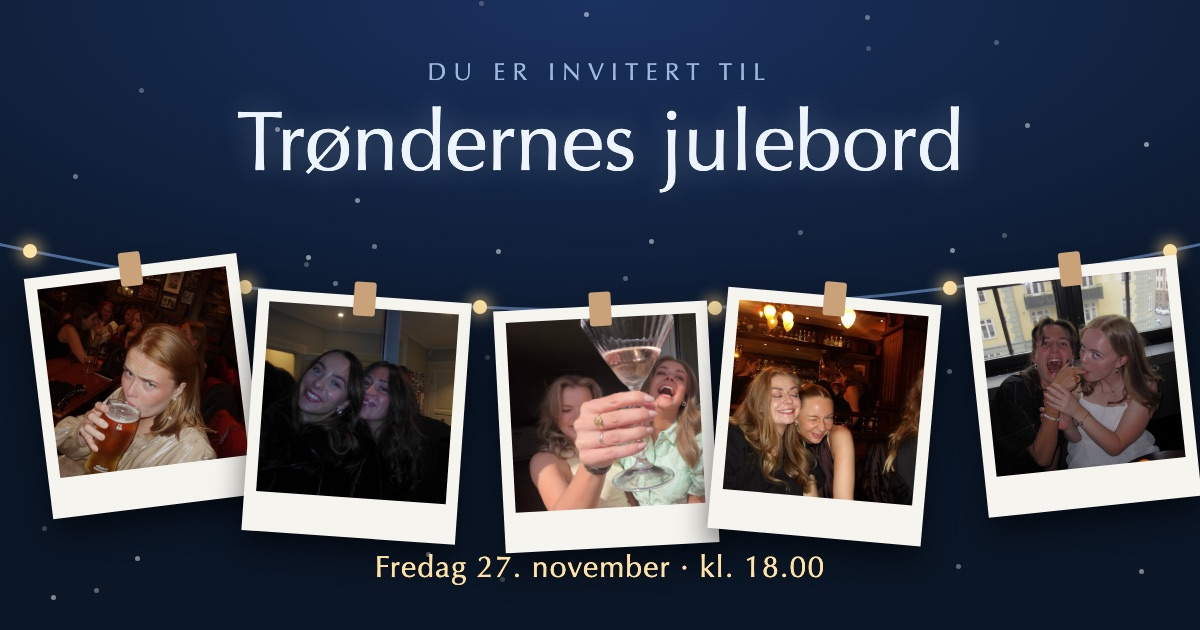
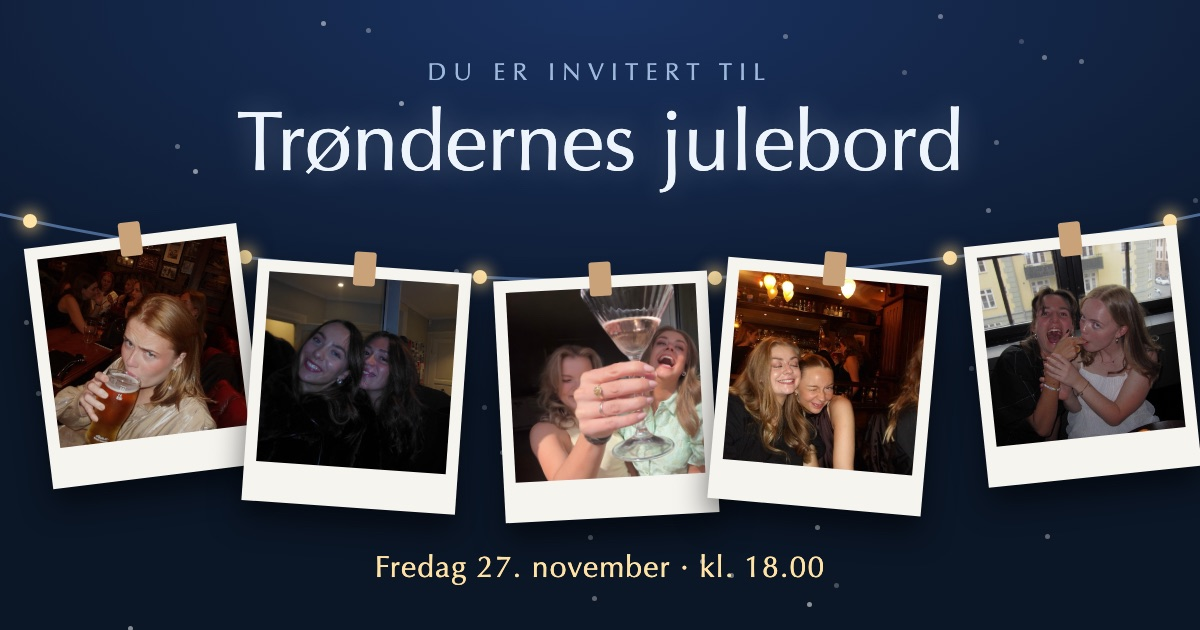
Ny tittel ved deling og lyslenka høyere i forhåndsvisningen

Changed region(s): [[0.0, 0.3317, 1.0, 0.8746], [0.0925, 0.9952, 0.1233, 1.0]]

diff --git a/index.html b/index.html
@@ -5,12 +5,12 @@
 <meta name="viewport" content="width=device-width,initial-scale=1,viewport-fit=cover">
 <meta name="robots" content="noindex,nofollow">
 <meta name="theme-color" content="#0b1626">
-<title>Trøndernes julebord</title>
-<meta property="og:title" content="Trøndernes julebord">
+<title>Invitasjon til trøndernes julebord</title>
+<meta property="og:title" content="Invitasjon til trøndernes julebord">
 <meta property="og:description" content="Fredag 27. november kl. 18.00">
 <meta property="og:type" content="website">
 <meta property="og:url" content="https://sannagrosoy.github.io/julebord/">
-<meta property="og:image" content="https://sannagrosoy.github.io/julebord/delebilde.jpg">
+<meta property="og:image" content="https://sannagrosoy.github.io/julebord/delebilde.jpg?v=2">
 <meta property="og:image:width" content="1200">
 <meta property="og:image:height" content="630">
 <meta property="og:image:alt" content="Polaroidbilder på en lyslenke under teksten Trøndernes julebord">
